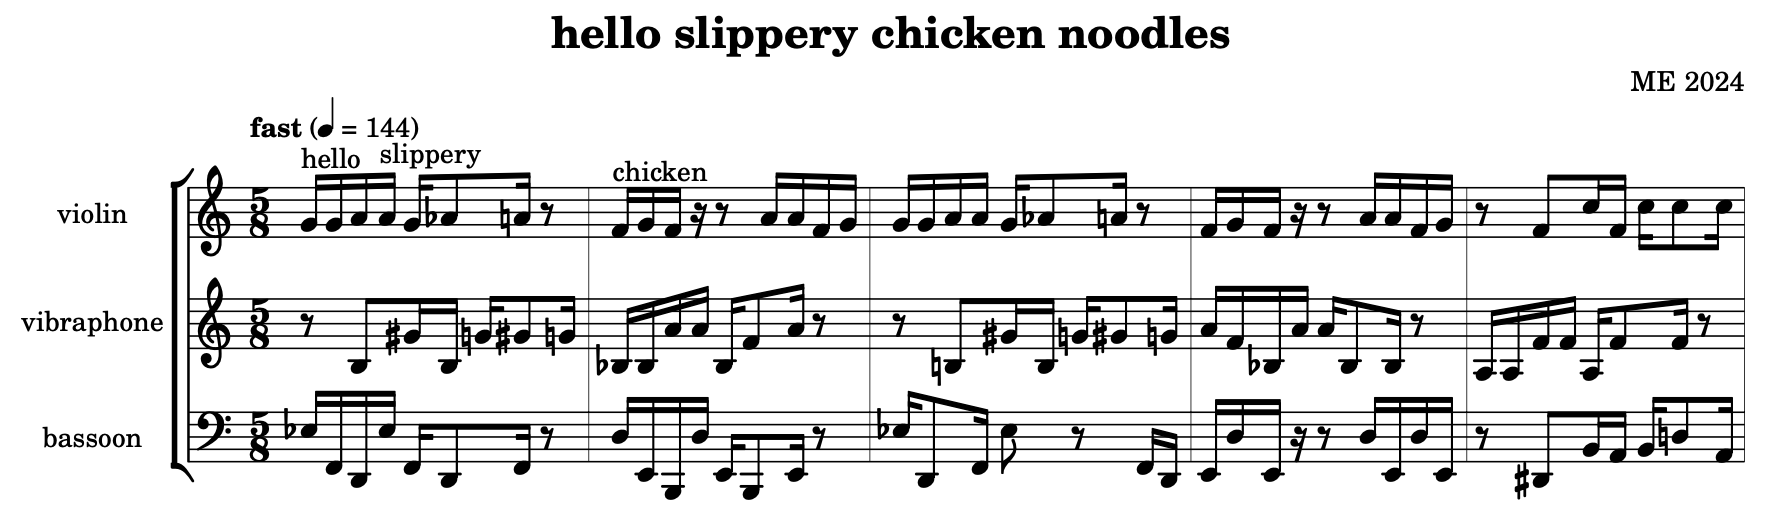
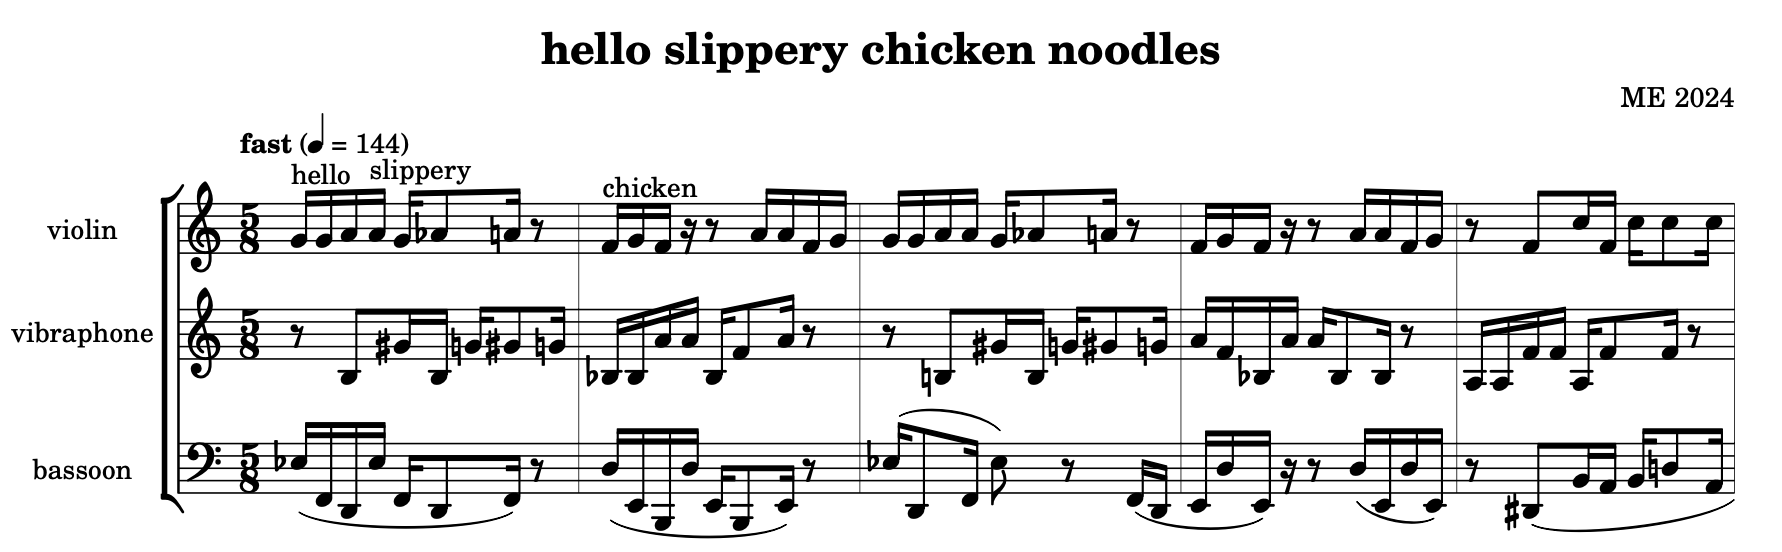
readme improvements

Changed region(s): [[0.0, 0.2105, 0.9921, 0.9925], [0.279, 0.0301, 0.7131, 0.1504], [0.8991, 0.1203, 0.9921, 0.2105]]

diff --git a/readme.md b/readme.md
@@ -38,10 +38,12 @@ page](https://github.com/mdedwards/slippery-chicken/wiki/How-can-I-'roll-my-own'
 for another approach).
 
 > [!WARNING]
+
 > Copy/pasting from a webpage into a Lisp interpreter often causes problems
-> because the characters are not all standard ANSI. The code below can be found
-> in [this repo](doc/examples/hello-slippery.lsp)--hit the *Download raw* button
-> to grab it.
+> because the characters are not always standard ANSI. Generally GitHub code
+> displayed online will work but if not, then the code below can be found in
+> [this repo](doc/examples/hello-slippery.lsp)--hit the *Download raw* button to
+> grab it.
 
 ```lisp
 (in-package :sc)
@@ -67,9 +69,10 @@ for another approach).
           ;; our rhythm sequences (aka phrases). We reference these in the
           ;; rthm-seq-map below to sequence the piece. Rhythms are notated as
           ;; simple symbols like s for 16th, e for eighth, q. for dotted quarter
-          ;; etc. Nested tuplets (complex rhythms) and RQQ notation also
-          ;; possible. Rhythms can be repeated with e.g. s x 4 (four
-          ;; 16ths). Melodic curves are indicated by the :pitch-seq-palette. See
+          ;; etc. Symbols in () are rests. Nested tuplets (complex rhythms) and
+          ;; RQQ notation also possible. Rhythms can be repeated with e.g. s x 4
+          ;; (four 16ths). Melodic curves are indicated by the
+          ;; :pitch-seq-palette. See
           ;; https://michael-edwards.org/sc/manual/pitches.html#curves
           :rthm-seq-palette '((1 ((((5 8) - s x 4 -  - s e s - (e)))
                                   :pitch-seq-palette ((1 2 5 4 1 3 6)
@@ -116,6 +119,10 @@ for another approach).
   ;; and violin but much harder on the bassoon so let's change repeated notes in
   ;; that part to neighbouring tones in the current set.
   (rm-repeated-pitches hello 'bsn)
+  ;; and related to that, let's automatically add slurs to the bassoon
+  ;; part--this would make a good starting point but would need some hand
+  ;; editing to avoid e.g. large downward leaps
+  (auto-slur hello 'bsn)
   ;; marks can be part of rthm-sequence-palettes or added post-generation. They
   ;; can be symbols like 'a' for accent or any arbitrary text, as here.
   (add-mark-to-note hello 1 1 'vln "hello")
@@ -141,6 +148,20 @@ quite like the funky MIDI file render made with [pianoteq
 7's](https://www.modartt.com/pianoteq_overview) electric piano *MKII Flower
 Power*:
 [listen](https://github.com/mdedwards/slippery-chicken/raw/quicklisp/doc/media/hello-slippery-chicken-noodles.mp3)
+
+## Thanks
+
+- Thanks first of all to Rick Taube, the author of *Common Music* (CM), which
+was the first algorithmic composition system I used when I was starting out in
+computer music way back in the early 90s. Slippery chicken takes all of its MIDI
+file reading and writing routines from CM as well as pitch and tuning notation.
+- Thanks to Sean Reed who did a lot of the original documentation---in the form
+of [the website](https://michael-edwards.org/sc) and the [inline code
+documentation](https://michael-edwards.org/sc/robodoc/toc_index.html), as well
+as the original test suite, all back in 2011/12
+- Thanks to the many students who have used, tested, and given me productive
+feedback over the years, most recently and in particular Leon Focker, Ruben
+Philipp, and Dan Ross.
 
 Happy lisping,   
   Michael Edwards (m@michael-edwards.org)
